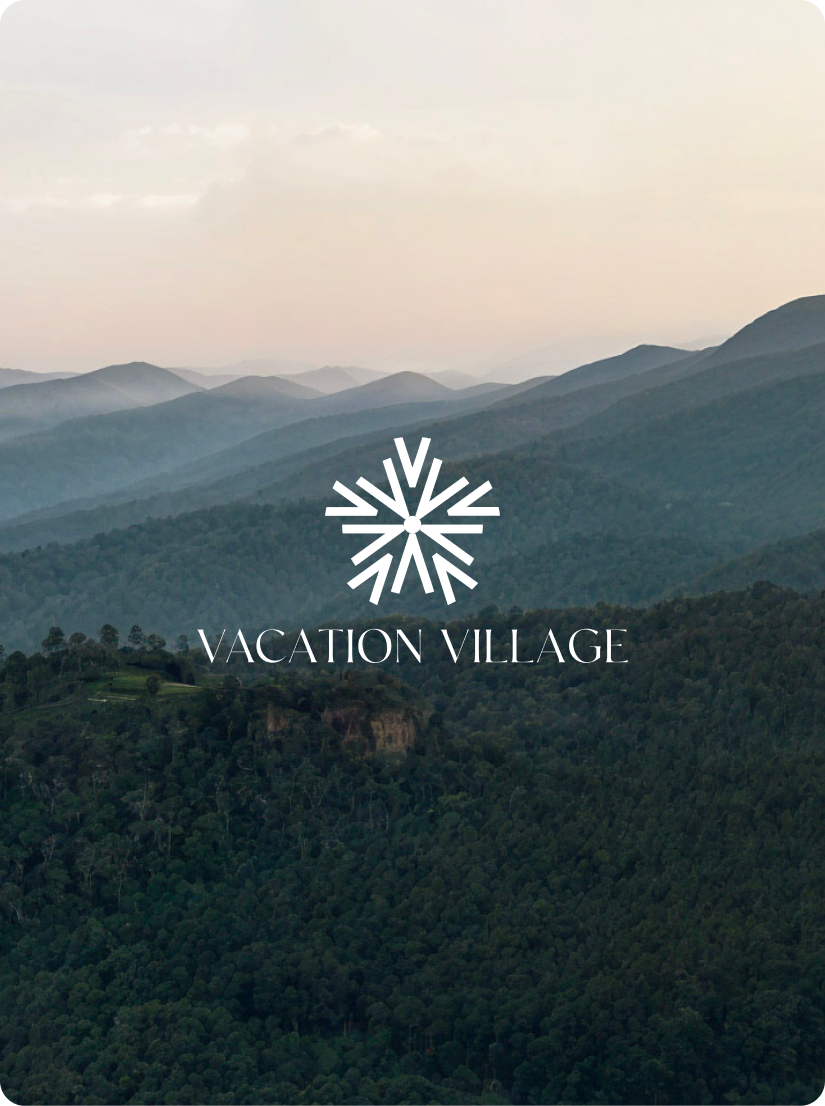
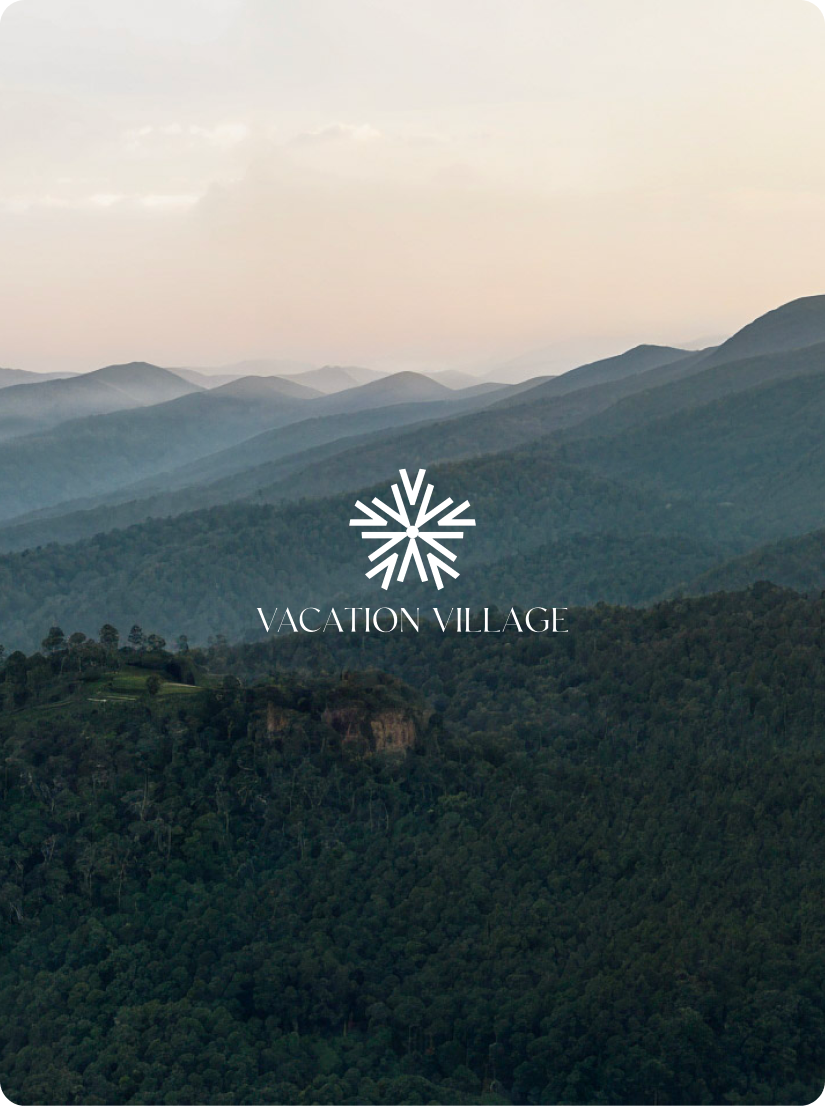
home page zooming fixed

Changed region(s): [[0.2424, 0.3996, 0.7576, 0.6148]]

diff --git a/src/pages/home/home.css b/src/pages/home/home.css
@@ -2,26 +2,26 @@
     display: flex;
     flex-direction: column;
     max-width: 100%;
-    padding: 0px 50px;
 }
 
 .hero-head {
     line-height: auto;
-
     align-items: self-start;
-    font-size: 43px;
-    margin: 65px 0px;
-    width: 1382px;
-    font-weight: bold;
+    font-size: 38px;
+    margin-top: 65px;
+    margin-left: 45px;
+    margin-right: 126px;
+    font-family: "Helvetica";
 }
 
 
 .second-hero {
     display: flex;
     flex-direction: row;
-    gap: 50px;
+    gap: 53px;
     max-width: 100%;
     justify-content: center;
+    margin-top: -50px;
 
 }
 
@@ -29,17 +29,20 @@
     display: flex;
     flex-direction: column;
     gap: 20px;
-    width: 60%;
+    width: 755px;
+    margin-top: 133px;
 }
 
-
+.hero-left img {
+    width: 755px;
+}
 
 .hero-right {
     display: flex;
     flex-direction: column;
     gap: 20px;
-    width: 40%;
-    margin-top: -70px;
+    width: 455px;
+    margin-top: 53px;
 }
 
 .hero-right span {
@@ -61,7 +64,7 @@
 
 
 .hero-right p {
-    font-size: 25px;
+    font-size: 21px;
     width: 100%;
 
 
@@ -83,12 +86,13 @@
     display: flex;
     flex-direction: column;
     max-width: 100%;
-    margin: 50px 0px;
+    gap: 48px;
 }
 
 .project-head {
     font-size: 50px;
     text-align: center;
+    margin-top: 53px;
 }
 
 
@@ -96,16 +100,20 @@
 .project-item {
     display: flex;
     justify-content: space-around;
-    width: 90%;
+    width: 1226px;
     align-self: center;
-    margin-top: 50px;
     text-decoration: none;
     color: rgb(255, 255, 255);
+    gap: 187px;
 
 }
 
 .project-item:hover {
-    color: rgb(192, 192, 192);
+    color: rgb(167, 167, 167);
+}
+
+.project-item:hover img {
+    transform: scale(1.1);
 }
 
 .left-home-project {
@@ -116,11 +124,12 @@
 
 .left-home-project h1 {
     font-size: 40px;
+    letter-spacing: -1px;
 }
 
 .left-home-project p {
     margin-bottom: -10px;
-    font-size: 18px;
+    font-size: 15px;
 }
 
 .left-home-project hr {
@@ -128,8 +137,7 @@
     background-color: rgb(255, 255, 255);
     width: 175px;
     margin-left: 0;
-    margin-top: -10px;
-    margin-bottom: 20px;
+    margin-top: -15px;
     margin-right: auto;
 }
 
@@ -143,16 +151,11 @@
 }
 
 .right-home-project img {
-    width: 685px;
-    height: 422px;
+    width: 624px;
     object-fit: cover;
     transition: transform 0.2s ease;
 }
 
-.right-home-project:hover img {
-    transform: scale(1.1);
-
-}
 
 .scroll-section {
     opacity: 0;

diff --git a/src/pages/branding/gmp/gmp.css b/src/pages/branding/gmp/gmp.css
@@ -11,17 +11,17 @@
     display: flex;
     flex-direction: column;
     align-items: center;
-    padding-top: 100px;
+    padding-top: 211px;
 }
 
 .hero-gmp img {
-    width: 287px;
+    width: 257px;
 }
 
 .hero-gmp h1 {
-    font-size: 130px;
+    font-size: 78px;
     font-family: "Jacquard 24";
-    letter-spacing: -6%;
+    letter-spacing: -4px;
     font-weight: normal;
     margin-top: 20px;
 }
@@ -243,7 +243,7 @@
 .scroll-section {
     opacity: 0;
     transform: translateY(60px);
-    transition: all 0.8s ease-out;
+    transition: all 0.3s ease-out;
 }
 
 .scroll-section.show {

diff --git a/src/component/exploring/exploring.css b/src/component/exploring/exploring.css
@@ -64,3 +64,14 @@
     box-shadow: 0 24px 60px rgba(0, 0, 0, 0.4);
 
 }
+
+.scroll-section {
+    opacity: 0;
+    transform: translateY(60px);
+    transition: all 0.8s ease-out;
+}
+
+.scroll-section.show {
+    opacity: 1;
+    transform: translateY(0);
+}

diff --git a/src/index.css b/src/index.css
@@ -1,7 +1,6 @@
 @font-face {
   font-family: Helvetica;
   src: url('../public/fonts/helvetica/Helvetica.ttf');
-  font-weight: normal;
 }
 
 
@@ -24,6 +23,7 @@ h4,
 h5,
 h6 {
   font-family: "Helvetica";
+  font-weight: bold;
 
 }
 

diff --git a/src/component/exploring/exploring.jsx b/src/component/exploring/exploring.jsx
@@ -68,7 +68,7 @@ const Exploring = ({ images }) => {
   }, [images]);
 
   return (
-    <section className="slider">
+    <section className="slider scroll-section">
       <h1 className="ce">Continue Exploring</h1>
 
       <div

diff --git a/src/pages/branding/crosia/crosia.css b/src/pages/branding/crosia/crosia.css
@@ -321,7 +321,7 @@
 .scroll-section {
     opacity: 0;
     transform: translateY(60px);
-    transition: all 0.8s ease-out;
+    transition: all 0.3s ease-out;
 }
 
 .scroll-section.show {

diff --git a/src/pages/branding/vacationv/vacationv.css b/src/pages/branding/vacationv/vacationv.css
@@ -209,7 +209,7 @@
 .scroll-section {
     opacity: 0;
     transform: translateY(60px);
-    transition: all 0.8s ease-out;
+    transition: all 0.3s ease-out;
 }
 
 .scroll-section.show {
